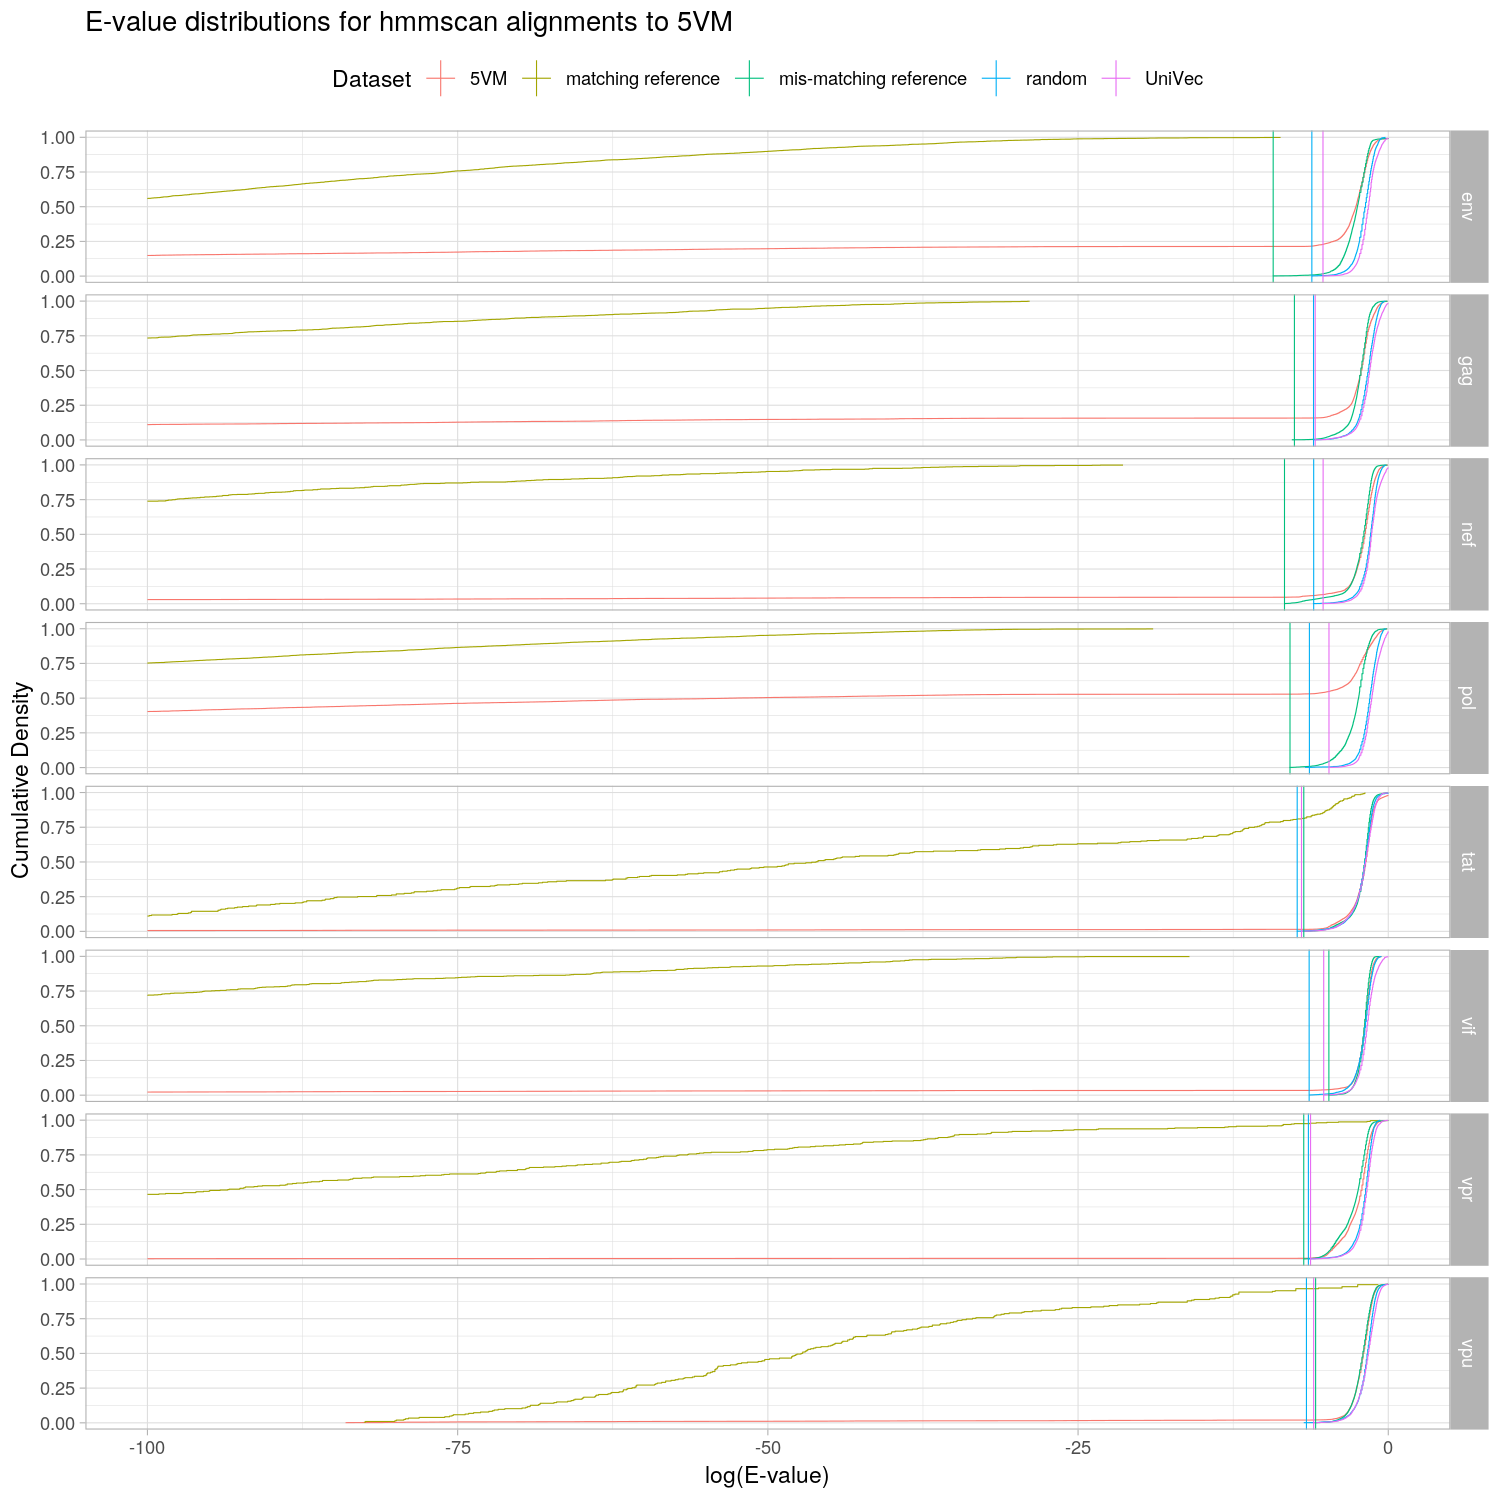
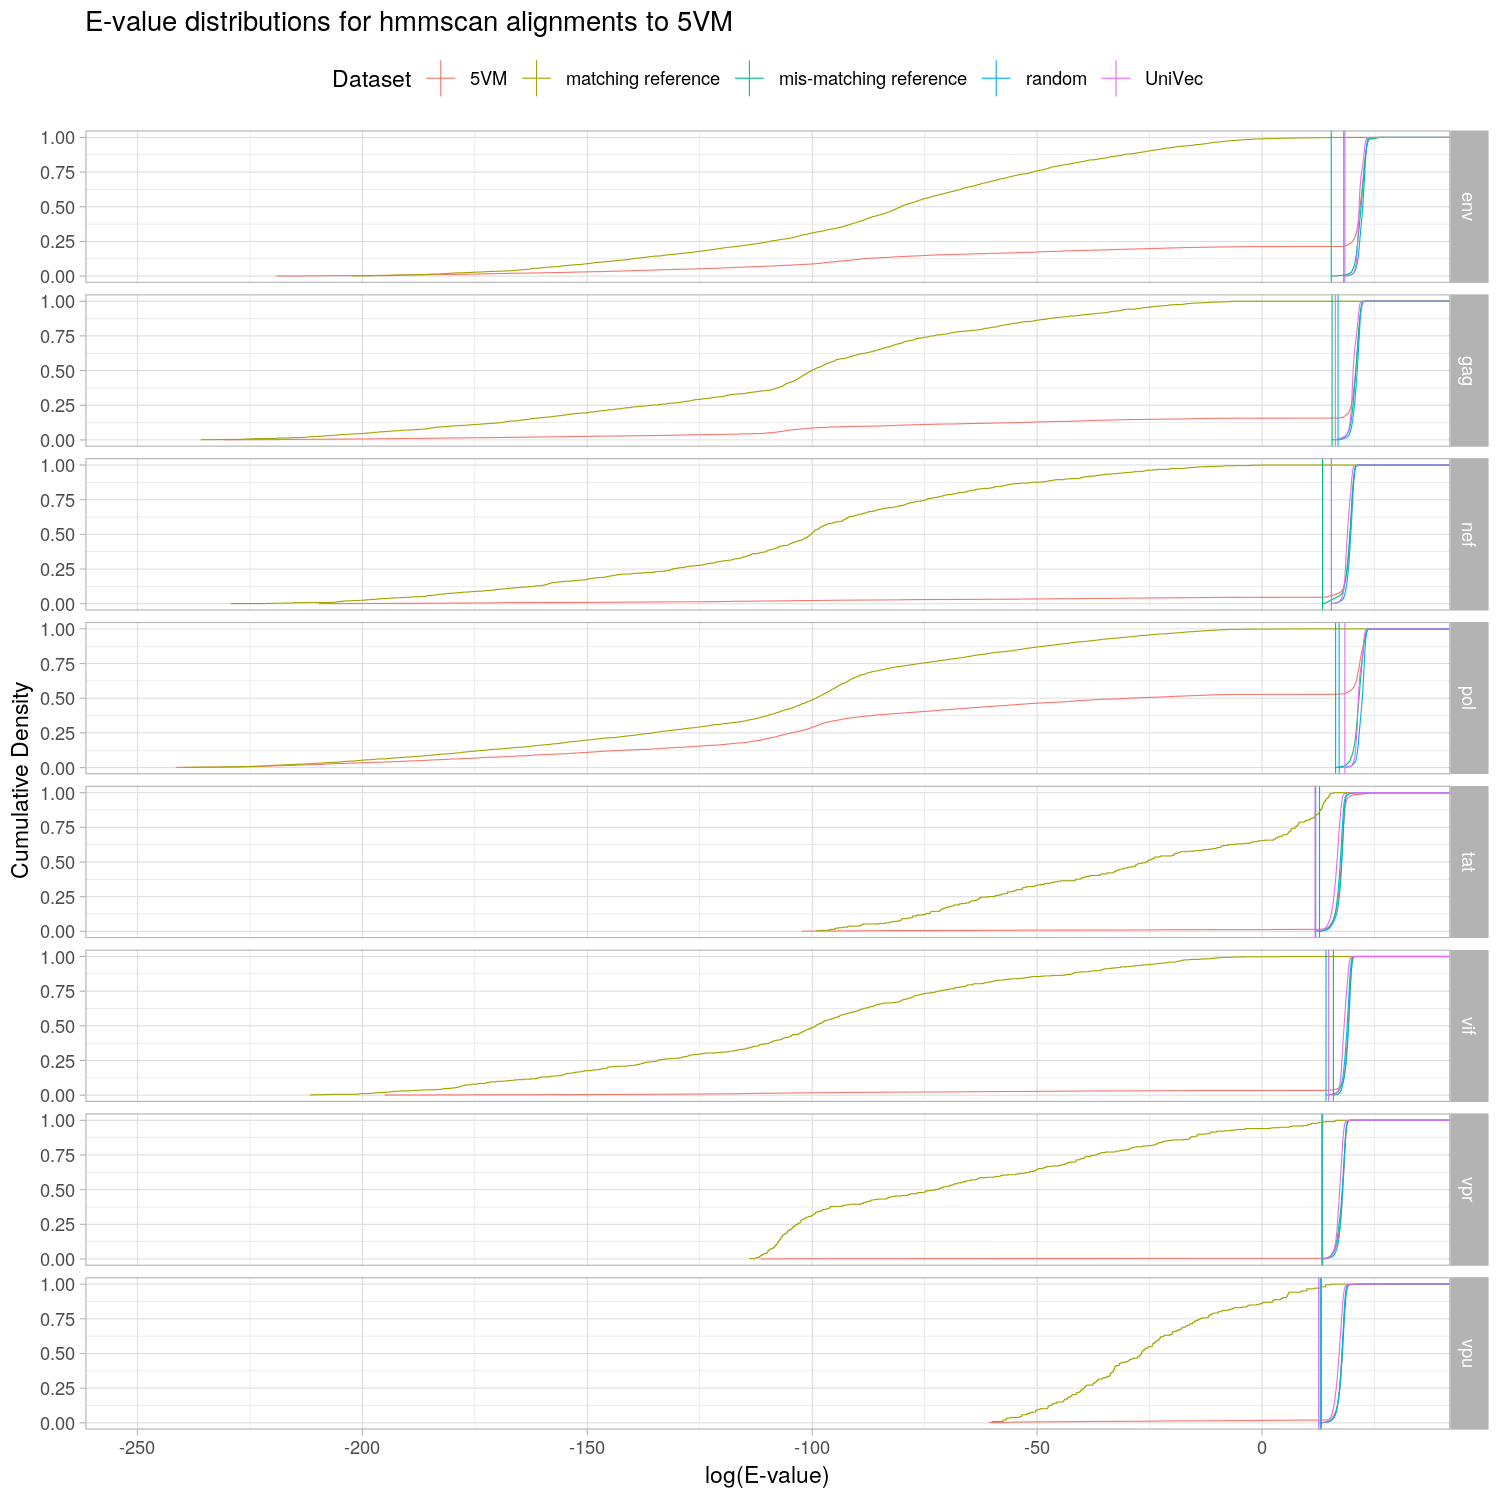
validation: switched from hmmscan to hmmsearch

diff --git a/validation/lib/filter.py b/validation/lib/filter.py
@@ -1,11 +1,25 @@
+import numpy as np
 import pandas as pd
 import sys
 from Bio import SeqIO
 
 threshold, csv_file, fa_file = sys.argv[1:]
 
-ids = pd.read_csv(csv_file, usecols=["query_name", "evalue"])
-ids = frozenset(ids.loc[ids.evalue <= float(threshold), "query_name"])
+dblength = {
+    "env": 854*5226,
+    "gag": 429*5183,
+    "nef": 207*5188,
+    "pol": 983*2956,
+    "tat": 71*3361,
+    "vif": 171*3937,
+    "vpr": 89*3931,
+    "vpu": 53*4573
+}
+
+ids = pd.read_csv(csv_file, usecols=["target_name", "query_name", "score", "target_length"])
+ids["dblength"] = ids["query_name"].apply(dblength.get)
+ids["evalue"] = np.log(ids["dblength"] * ids["target_length"] / np.exp2(ids["score"]))
+ids = frozenset(ids.loc[ids["evalue"] <= float(threshold), "target_name"])
 
 for seq in SeqIO.parse(open(fa_file), "fasta"):
     if seq.id in ids:

diff --git a/setup.py b/setup.py
@@ -1,5 +1,4 @@
 from setuptools import setup, find_packages
-from glob import glob
 
 with open("hivmmer/VERSION") as f:
     version = f.read().strip()
@@ -24,8 +23,8 @@ setup(
     provides=["hivmmer"],
     install_requires=["BioPython>=1.69", "numpy>=1.13.0", "pandas>=0.22.0"],
     packages=find_packages(),
-    package_data={"hivmmer": ["data/*"]},
-    scripts=glob("scripts/*"),
+    package_data={"hivmmer": ["VERSION", "hiv.*"]}
+    scripts=["scripts/hivmmer"],
     entry_points={
         "console_scripts": ["hivmmer-filter=hivmmer.filter:_run",
                             "hivmmer-translate=hivmmer.translate:_run"]

diff --git a/validation/lib/merge-csv.py b/validation/lib/merge-csv.py
@@ -19,11 +19,11 @@ for csv_file in sys.argv[1:]:
     with open(csv_file) as f:
         for row in csv.DictReader(f):
             print(dataset,
-                  row["target_name"],
-                  dblength[row["target_name"]],
+                  row["query_name"],
+                  dblength[row["query_name"]],
                   row["evalue"],
                   row["score"],
-                  row["query_length"],
-                  row["query_name"].partition("-")[0],
+                  row["target_length"],
+                  row["target_name"].partition("-")[0],
                   sep=",")
 
